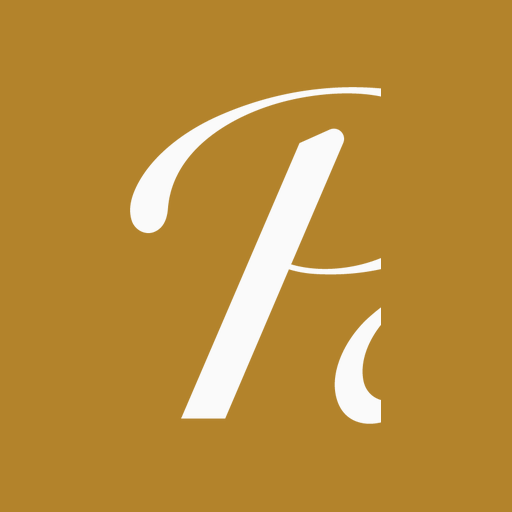
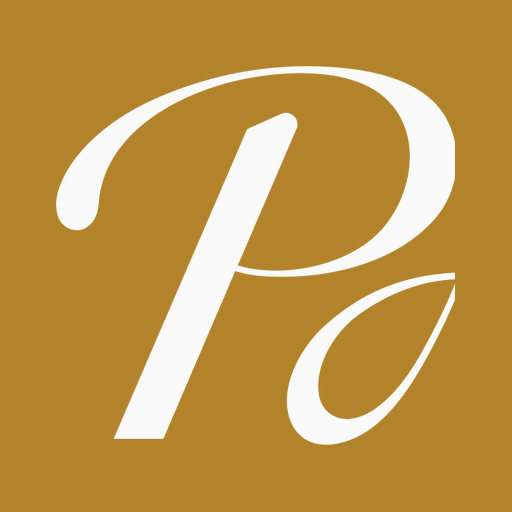
Cut the monogram where the letter actually ends
Разрез искали на глаз: 0.245 ширины логотипа рубили чашу «P» пополам, и в
иконке оставался обрубок, упиравшийся в правый край. Провал заливки по
столбцам показывает настоящую границу — буква с росчерком идёт до 34.5%,
дальше пустота перед стойкой «A». Поле вокруг буквы ужали до 0.11: на 16 px
дорог каждый пиксель.

Changed region(s): [[0.0938, 0.125, 0.9062, 0.875], [0.5625, 0.5312, 0.9062, 0.875]]

diff --git a/tools/make-icons.py b/tools/make-icons.py
@@ -26,8 +26,12 @@ GOLD = (179, 131, 43)          # 3.1 гайдбука
 LIGHT = (250, 250, 250)
 
 SCRIPT_PART = 0.74             # верхняя часть логотипа — каллиграфия
-MONO_PART = 0.245              # доля ширины, в которую укладывается «P»
-PAD = 0.17                     # поле вокруг буквы
+# «P» в логотипе — с росчерком, её чаша уходит вправо и почти дотягивается до
+# «A». Разрез ищем не на глаз, а по провалу заливки: до 34.5% ширины идёт буква,
+# дальше пустое место перед стойкой «A». Прежние 0.245 резали чашу пополам —
+# в иконке оставался обрубок, упиравшийся в правый край.
+MONO_PART = 0.345              # доля ширины, в которую укладывается «P»
+PAD = 0.11                     # поле вокруг буквы: на 16 px важен каждый пиксель
 
 
 def mono():
